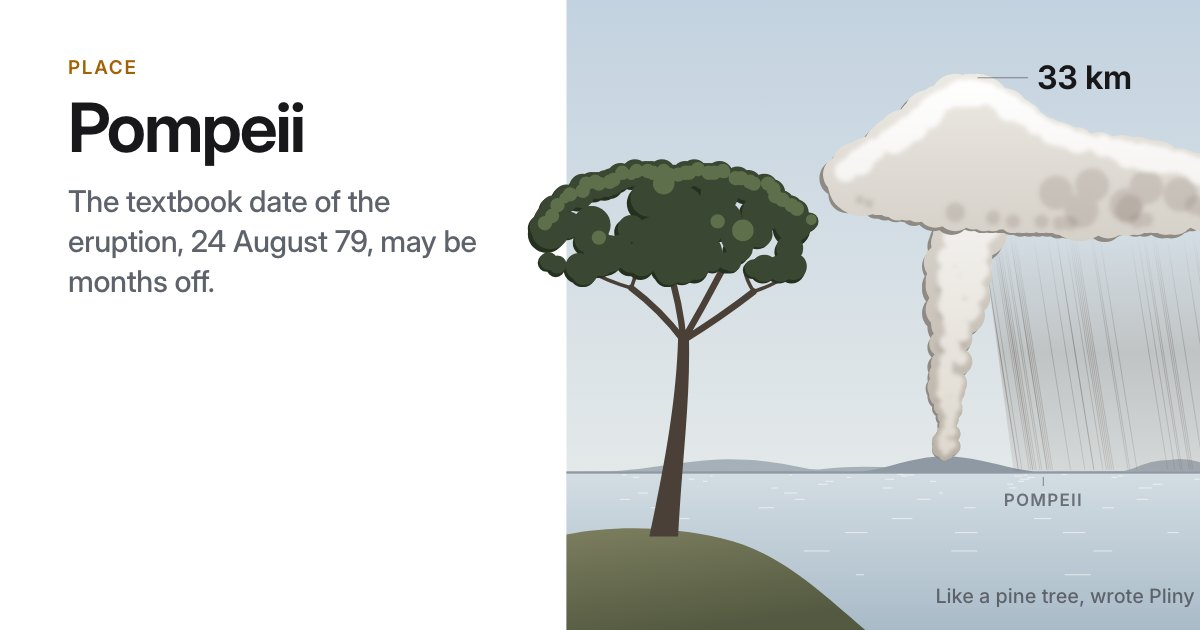
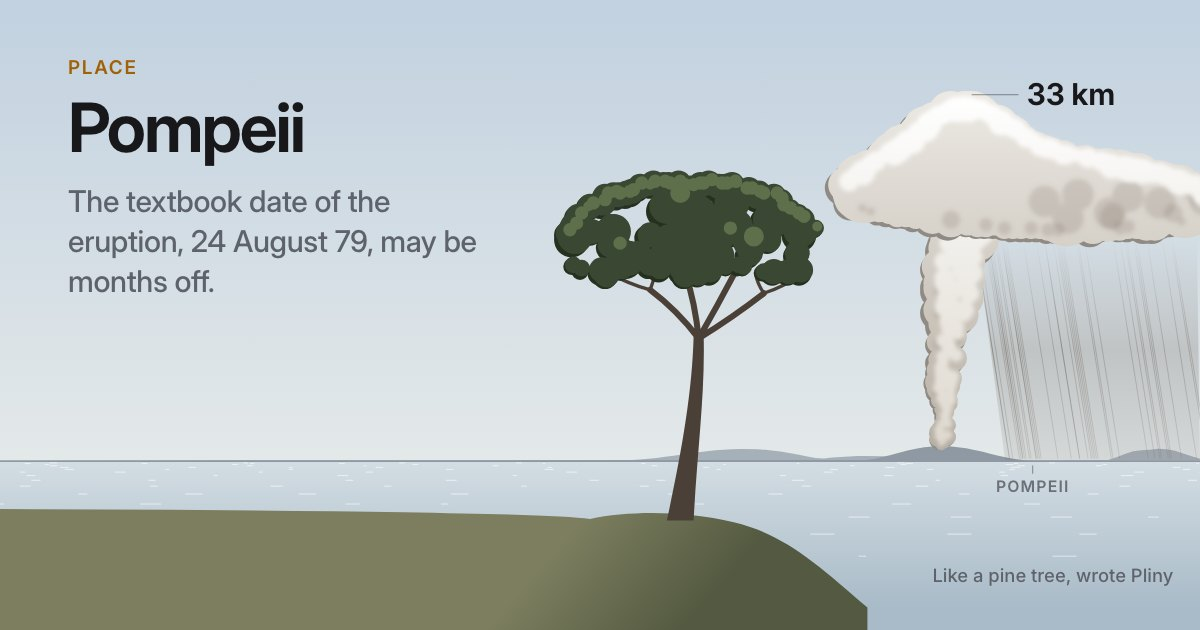
Sweep fixes: Pompeii fits whole at any card shape, its view running on past the frame; Back into the composer comes home to the top on a phone

diff --git a/lib/front.js b/lib/front.js
@@ -188,7 +188,7 @@ function pompeii() {
   const hill = (/** @type {number[]} */ a) => [...from(a[0], a[1]), a[2], a[3]];
   const SHORE = [[40.815, 14.205, .15, 2.5], [40.856, 14.198, .45, 3.5], [40.87, 14.25, .15, 3], [40.669, 14.478, 1.13, 3], [40.646, 14.521, 1.44, 3.5]].map(hill), VES = [hill([40.821, 14.426, 1.28, 7.5])];
   /** the skyline of some hills, closed down to the water @param {number[][]} hs */
-  const ridge = hs => { let d = '', last = ''; for (let x = 0; x <= W + 5; x += 5) { const b = B0 + Math.atan((x - W / 2) / F), z = Math.max(0, ...hs.map(([hb, hd, h, w]) => { const q = hd * Math.tan(b - hb) / w; return q * q < 1 ? h * (1 - q * q) ** 2 / hd : 0; })), y = `${f(y0 - F * z)}`; if (y !== last || x > W) d += `${d ? 'L' : 'M'}${x} ${y}`; last = y; } return `${d}V${y0 + 1}H0Z`; };
+  const ridge = hs => { let d = '', last = ''; for (let x = -W; x <= 2 * W; x += 5) { const b = B0 + Math.atan((x - W / 2) / F), z = Math.max(0, ...hs.map(([hb, hd, h, w]) => { const q = hd * Math.tan(b - hb) / w; return q * q < 1 ? h * (1 - q * q) ** 2 / hd : 0; })), y = `${f(y0 - F * z)}`; if (y !== last || x > 2 * W - 5) d += `${d ? 'L' : 'M'}${x} ${y}`; last = y; } return `${d}V${y0 + 1}H${-W}Z`; };
   /* the column, billow by billow (km beside the vent, km up, radius): a trunk widening as it climbs and leaning with the
      wind, then the crown, a low dome over the trunk to 33 km and an umbrella drifting downwind, its underside sagging as
      the pumice falls out of it */
@@ -214,14 +214,17 @@ function pompeii() {
   /** a line along the crown, from u = a to z, at the height h(u) gives @param {number} a @param {number} z @param {(u: number) => number} h */
   const edge = (a, z, h) => { let d = ''; for (let i = 0; i <= 16; i++) { const [x, y] = C(a + (z - a) * i / 16, h(a + (z - a) * i / 16)); d += `${i ? 'L' : 'M'}${f(x)} ${f(y)}`; } return d; };
   const px = (/** @type {number[][]} */ P) => P.map(([u, h, R, kind]) => [...C(u, h), R * k, kind]);
-  let b = `<defs><linearGradient id="pp-sky" x1="0" y1="0" x2="0" y2="1"><stop class="pp-s0" offset="0"/><stop class="pp-s1" offset="1"/></linearGradient><linearGradient id="pp-sea" x1="0" y1="0" x2="0" y2="1"><stop class="pp-w0" offset="0"/><stop class="pp-w1" offset="1"/></linearGradient><linearGradient id="pp-hd" x1="0" y1="0" x2=".4" y2="1"><stop class="pp-h0" offset="0"/><stop class="pp-h1" offset="1"/></linearGradient>`;
+  let b = `<defs><linearGradient id="pp-sky" gradientUnits="userSpaceOnUse" x1="0" y1="0" x2="0" y2="${H}"><stop class="pp-s0" offset="0"/><stop class="pp-s1" offset="1"/></linearGradient><linearGradient id="pp-sea" gradientUnits="userSpaceOnUse" x1="0" y1="${y0}" x2="0" y2="${H}"><stop class="pp-w0" offset="0"/><stop class="pp-w1" offset="1"/></linearGradient><linearGradient id="pp-hd" gradientUnits="userSpaceOnUse" x1="0" y1="292" x2="66" y2="350"><stop class="pp-h0" offset="0"/><stop class="pp-h1" offset="1"/></linearGradient>`;
   b += ['b', 'l'].map(c => `<linearGradient id="pp-c${c}" gradientUnits="userSpaceOnUse" x1="0" y1="${f(yTop)}" x2="0" y2="${y0}"><stop class="pp-${c}0" offset="0"/><stop class="pp-${c}1" offset="1"/></linearGradient>`).join('');
   b += `<linearGradient id="pp-fl" gradientUnits="userSpaceOnUse" x1="0" y1="${f(oy)}" x2="0" y2="${y0}"><stop class="pp-f0" offset="0"/><stop class="pp-f1" offset=".5"/><stop class="pp-f2" offset="1"/></linearGradient><radialGradient id="pp-gl"><stop class="pp-g0" offset="0"/><stop class="pp-g1" offset="1"/></radialGradient><filter id="pp-soft" filterUnits="userSpaceOnUse" x="${f(xV - 75)}" y="${f(yTop - 15)}" width="${f(W - xV + 75)}" height="${f(y0 - yTop + 20)}"><feGaussianBlur stdDeviation="1.3"/></filter>`;
   b += `<clipPath id="pp-rise"><rect class="pp-riser" x="${f(xV - 55)}" y="${f(oy - 30)}" width="120" height="${f(y0 + 40 - oy)}" rx="60"/></clipPath></defs>`;
-  b += `<rect width="${W}" height="${H}" fill="url(#pp-sky)"/><rect y="${y0}" width="${W}" height="${H - y0}" fill="url(#pp-sea)"/>`;
+  /* the view runs on past the frame (sky, bay, far shore, headland), so a card of another shape shows more of it, not less */
+  b += `<rect x="${-W}" y="${-H}" width="${3 * W}" height="${3 * H}" fill="url(#pp-sky)"/><rect x="${-W}" y="${y0}" width="${3 * W}" height="${2 * H}" fill="url(#pp-sea)"/>`;
   /* the bay, in level lines that close up toward the far shore as water does seen from 60 m up: one every so far out */
   let sea = '';
   for (let d = .2; ; d *= 1.3) { const y = y0 + F * .06 / d; if (y - y0 < 1.4) break; for (let x = 120 + r() * 60 - 400 * Math.min(.25, d); x < W; x += 45 + r() * 80) sea += `M${Math.round(x)} ${f(y)}h${Math.round((3 + r() * 9) * Math.min(1.3, .35 / d + .3))}`; }
+  const r2 = rng(80);
+  for (let d = .2; ; d *= 1.3) { const y = y0 + F * .06 / d; if (y - y0 < 1.4) break; for (const [a, z] of [[-W, 0], [W, 2 * W]]) for (let x = a + r2() * 60; x < z; x += 45 + r2() * 80) sea += `M${Math.round(x)} ${f(y)}h${Math.round((3 + r2() * 9) * Math.min(1.3, .35 / d + .3))}`; }
   b += `<path class="pp-glint" d="${sea}"/><path class="pp-far" d="${ridge(SHORE)}"/><path class="pp-mt" d="${ridge(VES)}"/>`;
   /* by night, the fire at the vent */
   b += `<circle class="pp-glow" cx="${f(xV)}" cy="${f(y0 - 7)}" r="16" fill="url(#pp-gl)"/>`;
@@ -229,14 +232,14 @@ function pompeii() {
   let fall = '';
   for (let i = 0; i < 40; i++) { const u = 2.8 + 20 * r() ** 1.15, [x, y] = C(u, span(u)[0] - .4), len = Math.round(y0 - 1 - y); if (len > 8) fall += `M${Math.round(x)} ${Math.round(y)}l${Math.round(len * .16)} ${len}`; }
   const veil = (/** @type {number} */ u) => C(u, span(u)[0] - .3);
-  b += `<g class="pp-fall"><path class="pp-veil" fill="url(#pp-fl)" d="M${veil(3).map(f).join(' ')}L${veil(12).map(f).join(' ')} ${veil(23).map(f).join(' ')}L${W} ${y0}H${f(C(3, 0)[0] + 18)}Z"/><path class="pp-stone" stroke="url(#pp-fl)" d="${fall}"/></g>`;
+  b += `<g class="pp-fall"><path class="pp-veil" fill="url(#pp-fl)" d="M${veil(3).map(f).join(' ')}L${veil(12).map(f).join(' ')} ${veil(23).map(f).join(' ')}L${f(Math.max(W, veil(23)[0]))} ${y0}H${f(C(3, 0)[0] + 18)}Z"/><path class="pp-stone" stroke="url(#pp-fl)" d="${fall}"/></g>`;
   /* the column: the trunk climbs inside a rising dome; the crown spreads from the top of the trunk (the group scales
      about that point, which the outer group moves to the origin) */
   b += `<g clip-path="url(#pp-rise)"><g class="pp-trunk">${billows(px(trunk.map(t => [...t, 1])), 'pp-c')}</g></g>`;
   b += `<g transform="translate(${f(ox)} ${f(oy)})"><g class="pp-crown"><g transform="translate(${f(-ox)} ${f(-oy)})">${billows(px(crown), 'pp-c', `<path fill="url(#pp-cb)" d="${edge(-6.5, 22, u => span(u)[0] + 1)}${edge(22, -6.5, u => span(u)[1] - 1.6).replace('M', 'L')}Z"/>`)}</g></g></g>`;
   /* the headland at Misenum, and the umbrella pine on it: a bare trunk forking into a few limbs under a broad, flat crown
      of tufts, made as the cloud's billows are */
-  const land = 'M0 297C24 292 56 292 86 299S136 324 166 350H0Z';
+  const land = `M${-W} 291Q-40 292 0 297C24 292 56 292 86 299S136 324 166 350V${2 * H}H${-W}Z`;
   b += `<path fill="url(#pp-hd)" d="${land}"/>`;
   const pc = 60, pw = 74, ptop = 92, pbot = 150;
   b += `<path class="pp-bark" d="M46 298C55 256 61 222 62 188L68 187C69 222 64 258 62 298Z"/>`;
@@ -261,7 +264,7 @@ function pompeii() {
   b += `<ellipse class="hit" data-read="Vesuvius, 29 km away across the bay" cx="${f(xV)}" cy="${y0 - 3}" rx="46" ry="9"/>`;
   b += `<circle class="hit" data-read="Pompeii, under the fall, buried in 4 to 6 m of ash and pumice" cx="${f(xP)}" cy="${y0 + 9}" r="13"/>`;
   b += `<ellipse class="hit" data-read="${pine}" cx="${pc}" cy="${(ptop + pbot) / 2 + 2}" rx="${pw + 8}" ry="${(pbot - ptop) / 2 + 8}"/><rect class="hit" data-read="${pine}" x="50" y="${pbot}" width="24" height="${296 - pbot}"/>`;
-  return svg(W, H, 'The eruption of AD 79 as Pliny the Younger saw it from Misenum, 29 km across the Bay of Naples: a column of ash rising 33 km over Vesuvius, its top spread like the crown of the umbrella pine beside him, and pumice falling downwind on Pompeii', b, 'pp', 'xMidYMid slice');
+  return svg(W, H, 'The eruption of AD 79 as Pliny the Younger saw it from Misenum, 29 km across the Bay of Naples: a column of ash rising 33 km over Vesuvius, its top spread like the crown of the umbrella pine beside him, and pumice falling downwind on Pompeii', b, 'pp');
 }
 
 /* Rubik's Cube: the cube taken apart, as an exploded drawing: its 8 corners, 12 edges and 6 centres, each piece where it

diff --git a/src/app/16-router.js b/src/app/16-router.js
@@ -59,8 +59,9 @@ function showHome() {
   setView('home'); setCUR(''); document.documentElement.dataset.accent = 'concept';
   $('#view').innerHTML = viewStart(); startLanding(POP); document.title = 'dorkhub: learn about anything';
   window.scrollTo(0, 0); updateProg(); renderWorldBtn();
-  /* back where you were, once the cards below the composer are made */
-  const y = (history.state && history.state.y) || 0;
+  /* back where you were, once the cards below the composer are made; a page asked for in the composer comes home to
+     the top, where the composer is whole under the bar (where typing had scrolled to could tuck it under on a phone) */
+  const at = history.state && history.state.at, y = at && at.k === 'seed' ? 0 : (history.state && history.state.y) || 0;
   if (y) frontShown().then(() => { if (VIEW === 'home') { window.scrollTo(0, y); updateProg(); } });
 }
 /* ================= a move runs both ways =================
